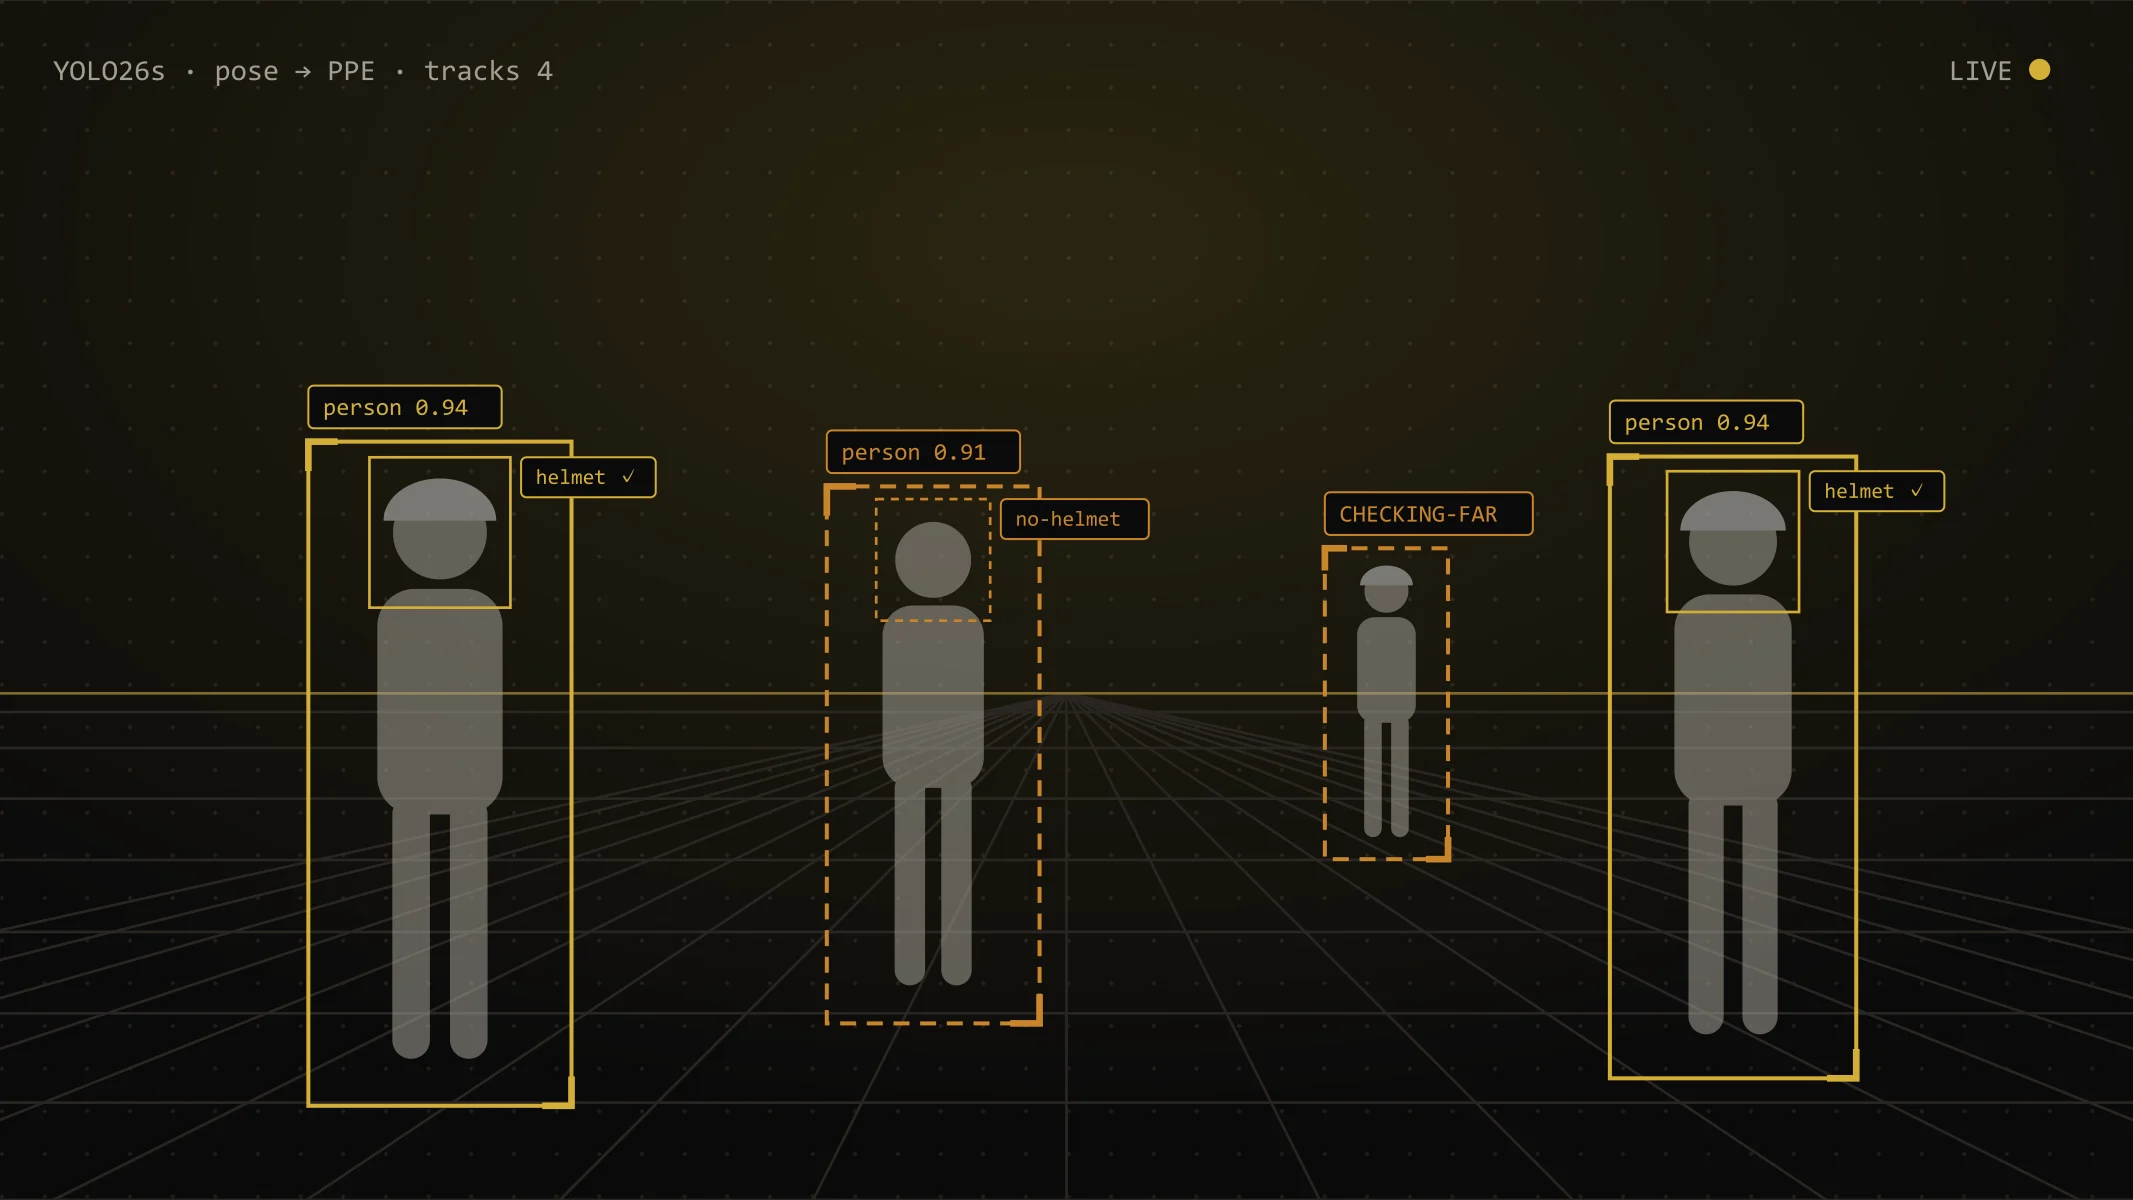
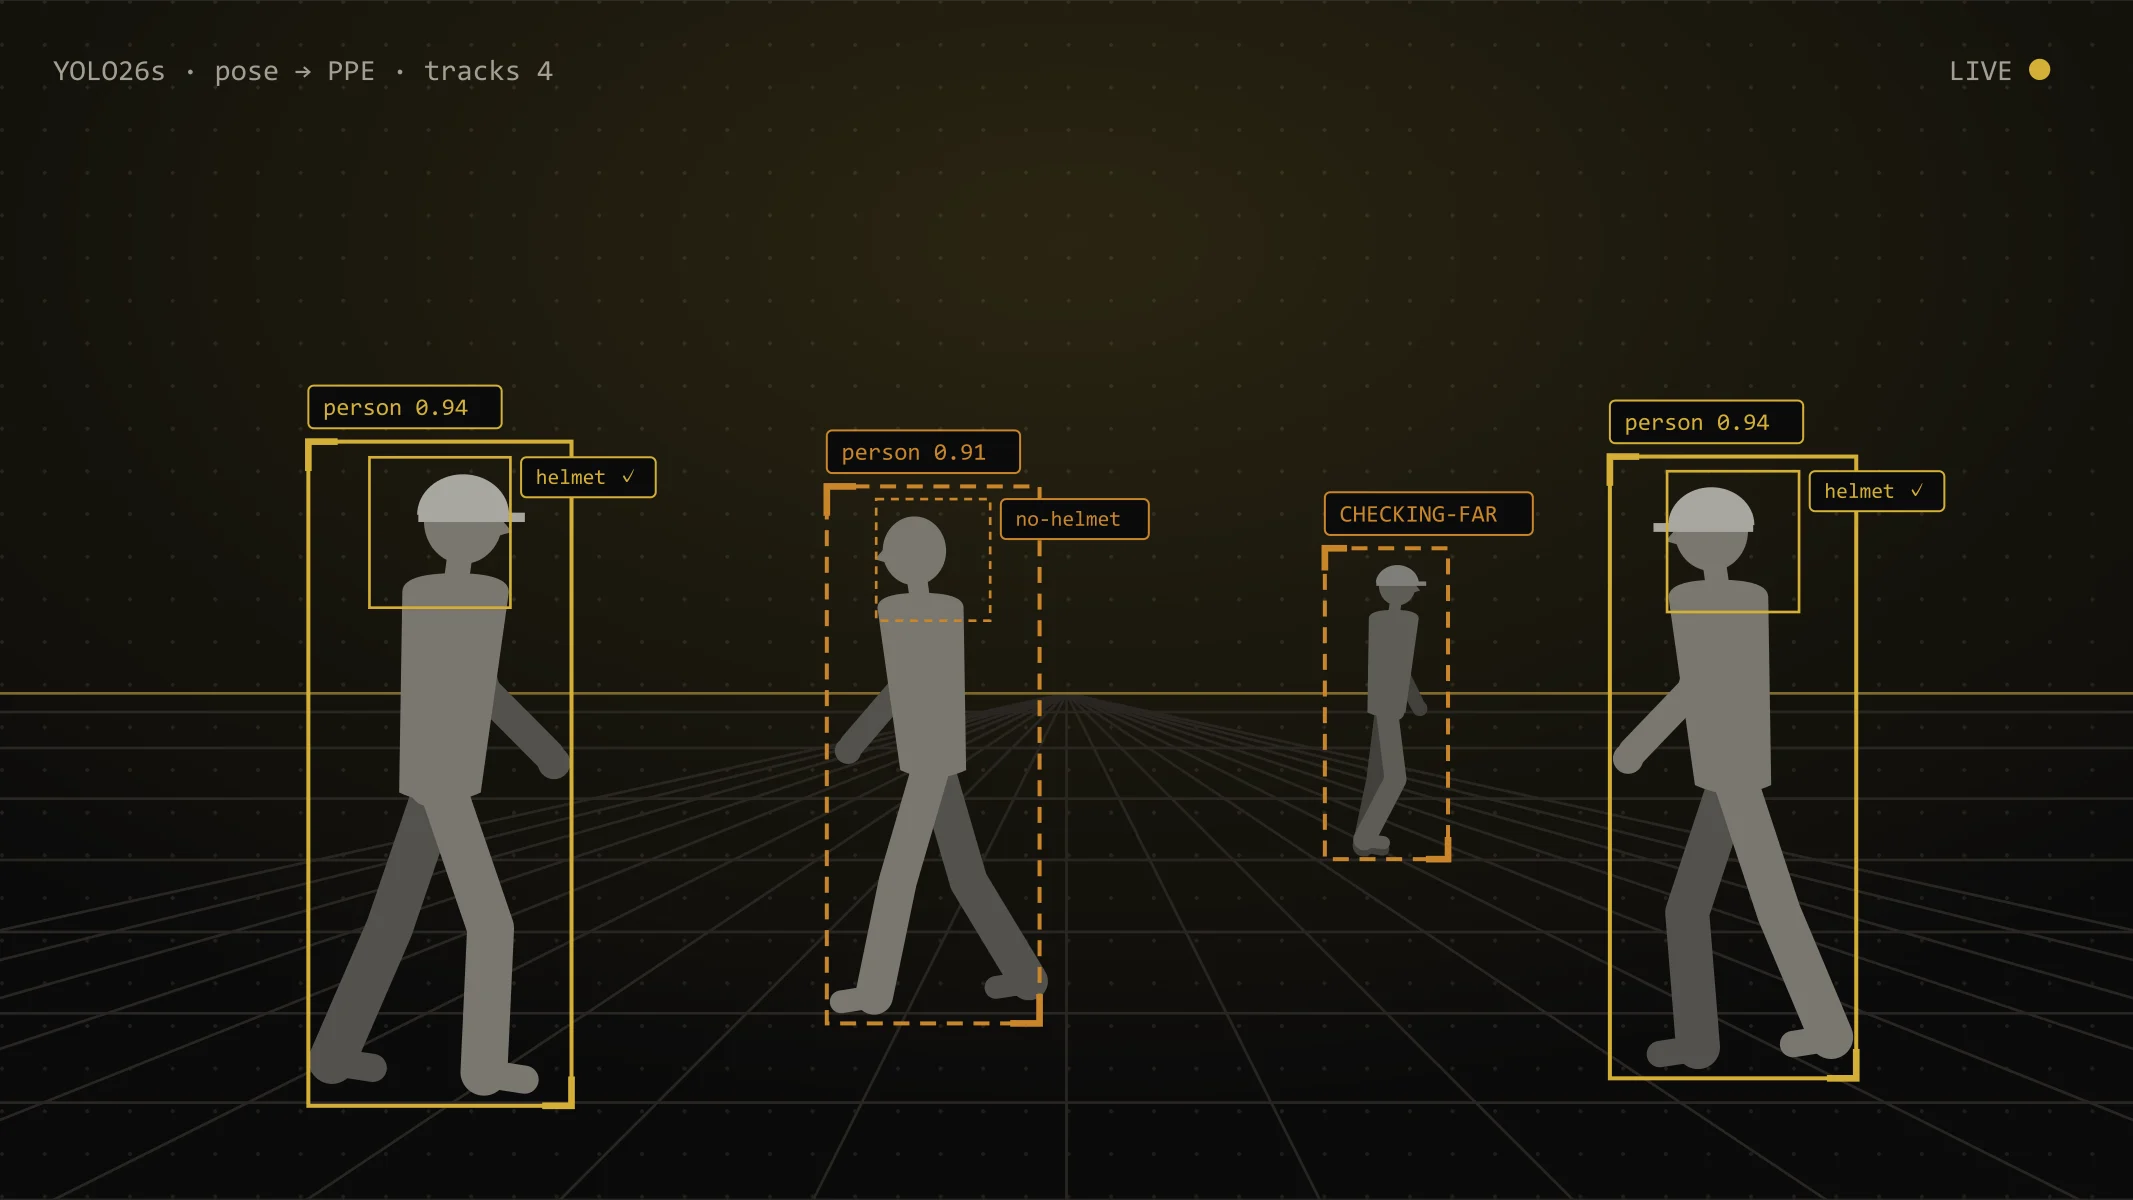
feat(covers): use articulated walkers in the PPE cover
Port the hero's side-view figure (arms, knees, shoes, hard-hat brim) to
the SVG cover generator so the card matches the live scene.

diff --git a/web/scripts/covers.py b/web/scripts/covers.py
@@ -69,17 +69,60 @@ def arrow(x1, y1, x2, y2, color=GOLD, sw=3, dash=None):
             f'<polyline points="{a1[0]:.1f},{a1[1]:.1f} {x2},{y2} {a2[0]:.1f},{a2[1]:.1f}" fill="none" stroke="{color}" stroke-width="{sw}" stroke-linejoin="round"/>')
 
 
-def person(cx, by, h, helmet=True, op=0.55):
-    hr = h * 0.075
-    top = by - h
-    tw = h * 0.2
-    s = f'<g fill="{MUTED}" opacity="{op}">'
-    s += f'<circle cx="{cx}" cy="{top + hr * 1.4}" r="{hr}"/>'
+def _mix(a, b, t):
+    pa = [int(a[i:i + 2], 16) for i in (1, 3, 5)]
+    pb = [int(b[i:i + 2], 16) for i in (1, 3, 5)]
+    return "#" + "".join(f"{round(x + (y - x) * t):02x}" for x, y in zip(pa, pb))
+
+
+def person(cx, by, h, helmet=True, op=0.55, phase=0.9, d=1):
+    """Side-view walker mid-stride; mirrors DetectionHero.tsx so the cover matches the live hero."""
+    body = _mix(SURF, MUTED, op * 1.3)
+    back = _mix(SURF, MUTED, op * 0.8)
+    hip_y, sh_y = by - h * 0.5, by - h * 0.81
+    sh_x = cx + h * 0.025 * d
+    head_r = h * 0.068
+    head_x, head_y = sh_x + d * h * 0.012, sh_y - h * 0.035 - head_r
+
+    def at(x, y, ln, ang):
+        return x + math.sin(ang) * ln * d, y + math.cos(ang) * ln
+
+    def limb(pts, w, c):
+        pp = " ".join(f"{x:.1f},{y:.1f}" for x, y in pts)
+        return f'<polyline points="{pp}" fill="none" stroke="{c}" stroke-width="{w:.1f}" stroke-linecap="round" stroke-linejoin="round"/>'
+
+    def leg(ph, c):
+        thigh = math.sin(ph) * 0.42
+        bend = 0.08 + 0.55 * max(0, math.cos(ph)) * max(0, math.sin(ph + 1.2))
+        knee = at(cx, hip_y, h * 0.25, thigh)
+        ank = at(*knee, h * 0.23, thigh - bend)
+        ay = min(ank[1], by - h * 0.025)
+        toe = (ank[0] + d * h * 0.065, min(ay + h * 0.012, by - h * 0.01))
+        return limb([(cx, hip_y), knee, (ank[0], ay)], h * 0.075, c) + limb([(ank[0] - d * h * 0.012, ay), toe], h * 0.045, c)
+
+    def arm(ph, c):
+        up = -math.sin(ph) * 0.38
+        eb = 0.25 + 0.3 * max(0, -math.sin(ph))
+        s0 = (sh_x, sh_y + h * 0.015)
+        el = at(*s0, h * 0.16, up)
+        wr = at(*el, h * 0.145, up + eb)
+        return limb([s0, el, wr], h * 0.05, c) + f'<circle cx="{wr[0] + d * h * 0.008:.1f}" cy="{wr[1] + h * 0.012:.1f}" r="{h * 0.026:.1f}" fill="{c}"/>'
+
+    sw, ww = h * 0.085, h * 0.065
+    s = "<g>" + arm(phase + math.pi, back) + leg(phase + math.pi, back)
+    s += (f'<path d="M{sh_x - sw:.1f},{sh_y + h * 0.01:.1f} Q{sh_x - sw:.1f},{sh_y - h * 0.02:.1f} {sh_x:.1f},{sh_y - h * 0.02:.1f} '
+          f'Q{sh_x + sw:.1f},{sh_y - h * 0.02:.1f} {sh_x + sw:.1f},{sh_y + h * 0.01:.1f} L{cx + ww:.1f},{hip_y + h * 0.02:.1f} '
+          f'Q{cx:.1f},{hip_y + h * 0.05:.1f} {cx - ww:.1f},{hip_y + h * 0.02:.1f} Z" fill="{body}"/>')
+    s += limb([(sh_x, sh_y), (head_x - d * h * 0.005, head_y + head_r * 0.8)], h * 0.04, body)
+    s += f'<ellipse cx="{head_x:.1f}" cy="{head_y:.1f}" rx="{head_r * 0.92:.1f}" ry="{head_r:.1f}" fill="{body}"/>'
+    s += (f'<polygon points="{head_x + d * head_r * 0.85:.1f},{head_y - head_r * 0.1:.1f} {head_x + d * head_r * 1.15:.1f},{head_y + head_r * 0.25:.1f} '
+          f'{head_x + d * head_r * 0.8:.1f},{head_y + head_r * 0.35:.1f}" fill="{body}"/>')
     if helmet:
-        s += f'<path d="M{cx - hr * 1.2},{top + hr * 1.15} a{hr * 1.2},{hr * 0.9} 0 0 1 {hr * 2.4},0 z" fill="{SILVER}"/>'
-    s += f'<rect x="{cx - tw / 2}" y="{top + hr * 2.6}" width="{tw}" height="{h * 0.36}" rx="{tw * 0.3}"/>'
-    s += f'<rect x="{cx - tw * 0.38}" y="{top + hr * 2.6 + h * 0.33}" width="{tw * 0.3}" height="{h * 0.42}" rx="{tw * 0.15}"/>'
-    s += f'<rect x="{cx + tw * 0.08}" y="{top + hr * 2.6 + h * 0.33}" width="{tw * 0.3}" height="{h * 0.42}" rx="{tw * 0.15}"/>'
+        hc = _mix(SURF, TEXT, op * 1.2)
+        hy = head_y - head_r * 0.15
+        s += f'<path d="M{head_x - head_r * 1.08:.1f},{hy:.1f} A{head_r * 1.08:.1f},{head_r * 0.95:.1f} 0 0 1 {head_x + head_r * 1.08:.1f},{hy:.1f} Z" fill="{hc}"/>'
+        s += f'<rect x="{min(head_x - d * head_r * 1.05, head_x + d * head_r * 1.45):.1f}" y="{head_y - head_r * 0.2:.1f}" width="{head_r * 2.5:.1f}" height="{head_r * 0.22:.1f}" fill="{hc}"/>'
+    s += arm(phase, body) + leg(phase, body)
     return s + "</g>"
 
 
@@ -123,9 +166,9 @@ for i in range(9):
 for i in range(-9, 10):
     b += f'<line x1="800" y1="520" x2="{800 + i * 190}" y2="{H}" stroke="{LINE}" stroke-width="2"/>'
 b += f'<line x1="0" y1="520" x2="{W}" y2="520" stroke="{GOLD}" stroke-opacity=".5" stroke-width="2"/>'
-people = [(330, 820, 470, True, "compliant"), (700, 760, 380, False, "violation"), (1040, 640, 220, True, "far"), (1300, 800, 440, True, "compliant")]
-for cx, by, h, helmet, st in people:
-    b += person(cx, by, h, helmet)
+people = [(330, 820, 470, True, "compliant", 0.9, 1), (700, 760, 380, False, "violation", 2.4, -1), (1040, 640, 220, True, "far", 0.3, 1), (1300, 800, 440, True, "compliant", 4.0, -1)]
+for cx, by, h, helmet, st, ph, d in people:
+    b += person(cx, by, h, helmet, 0.55 if st != "far" else 0.4, ph, d)
     bw = h * 0.42
     x, y = cx - bw / 2, by - h - h * 0.04
     color = GOLD if st == "compliant" else AMBER
